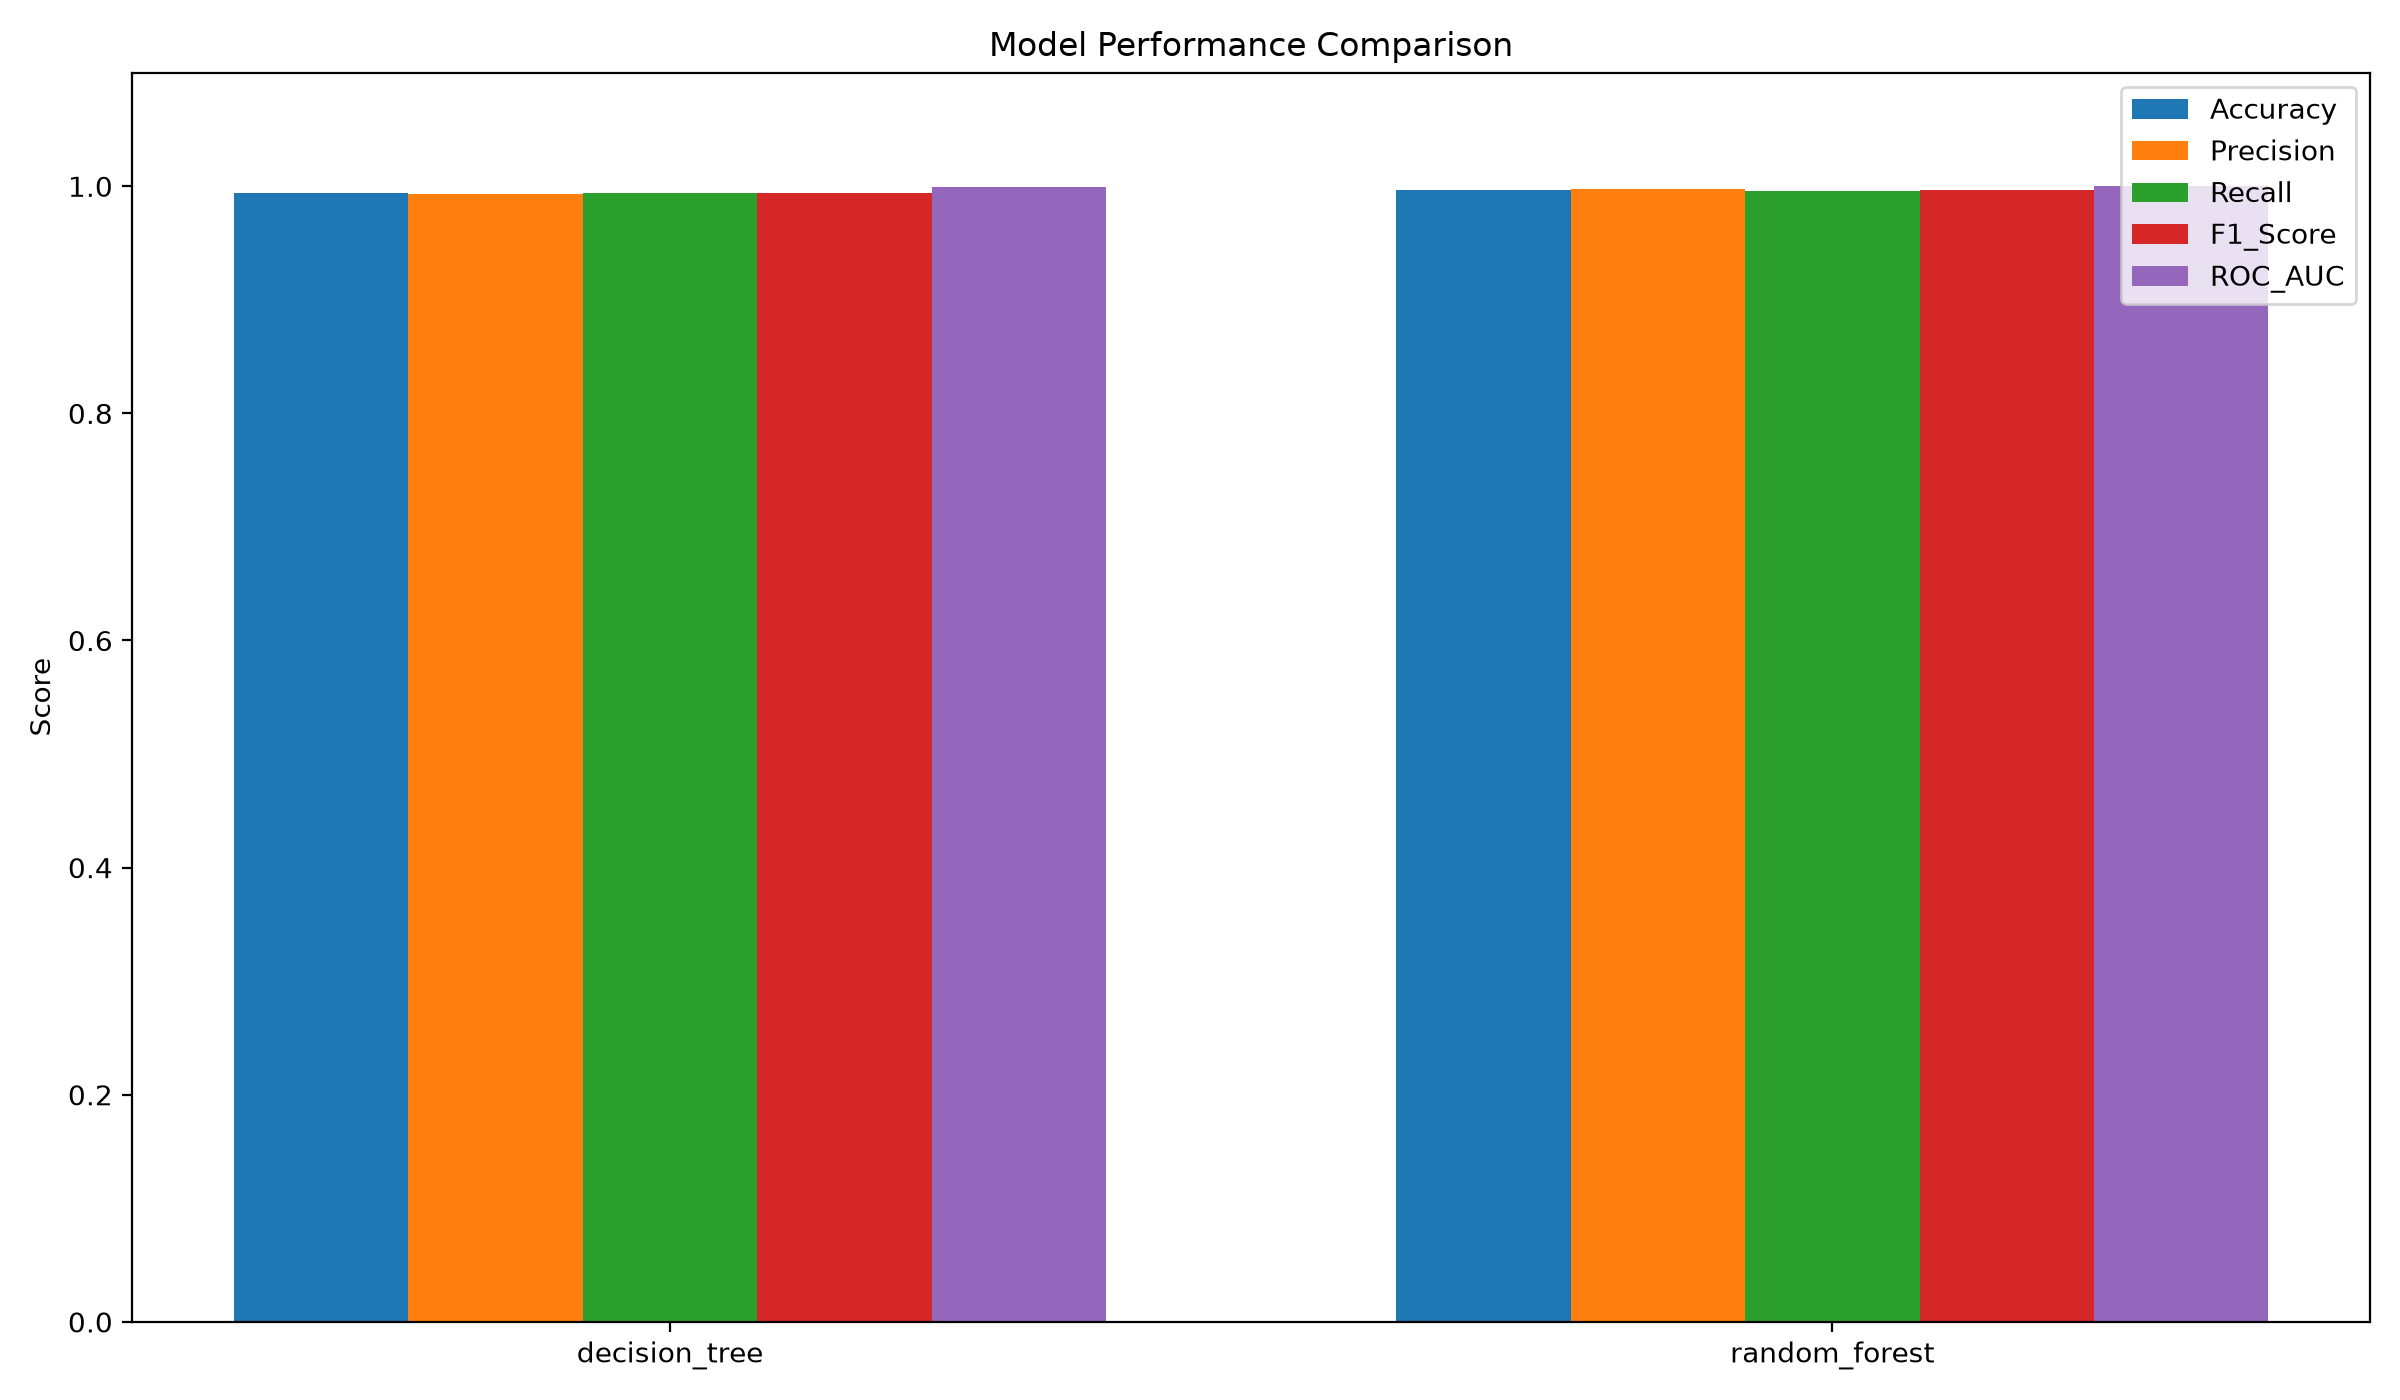
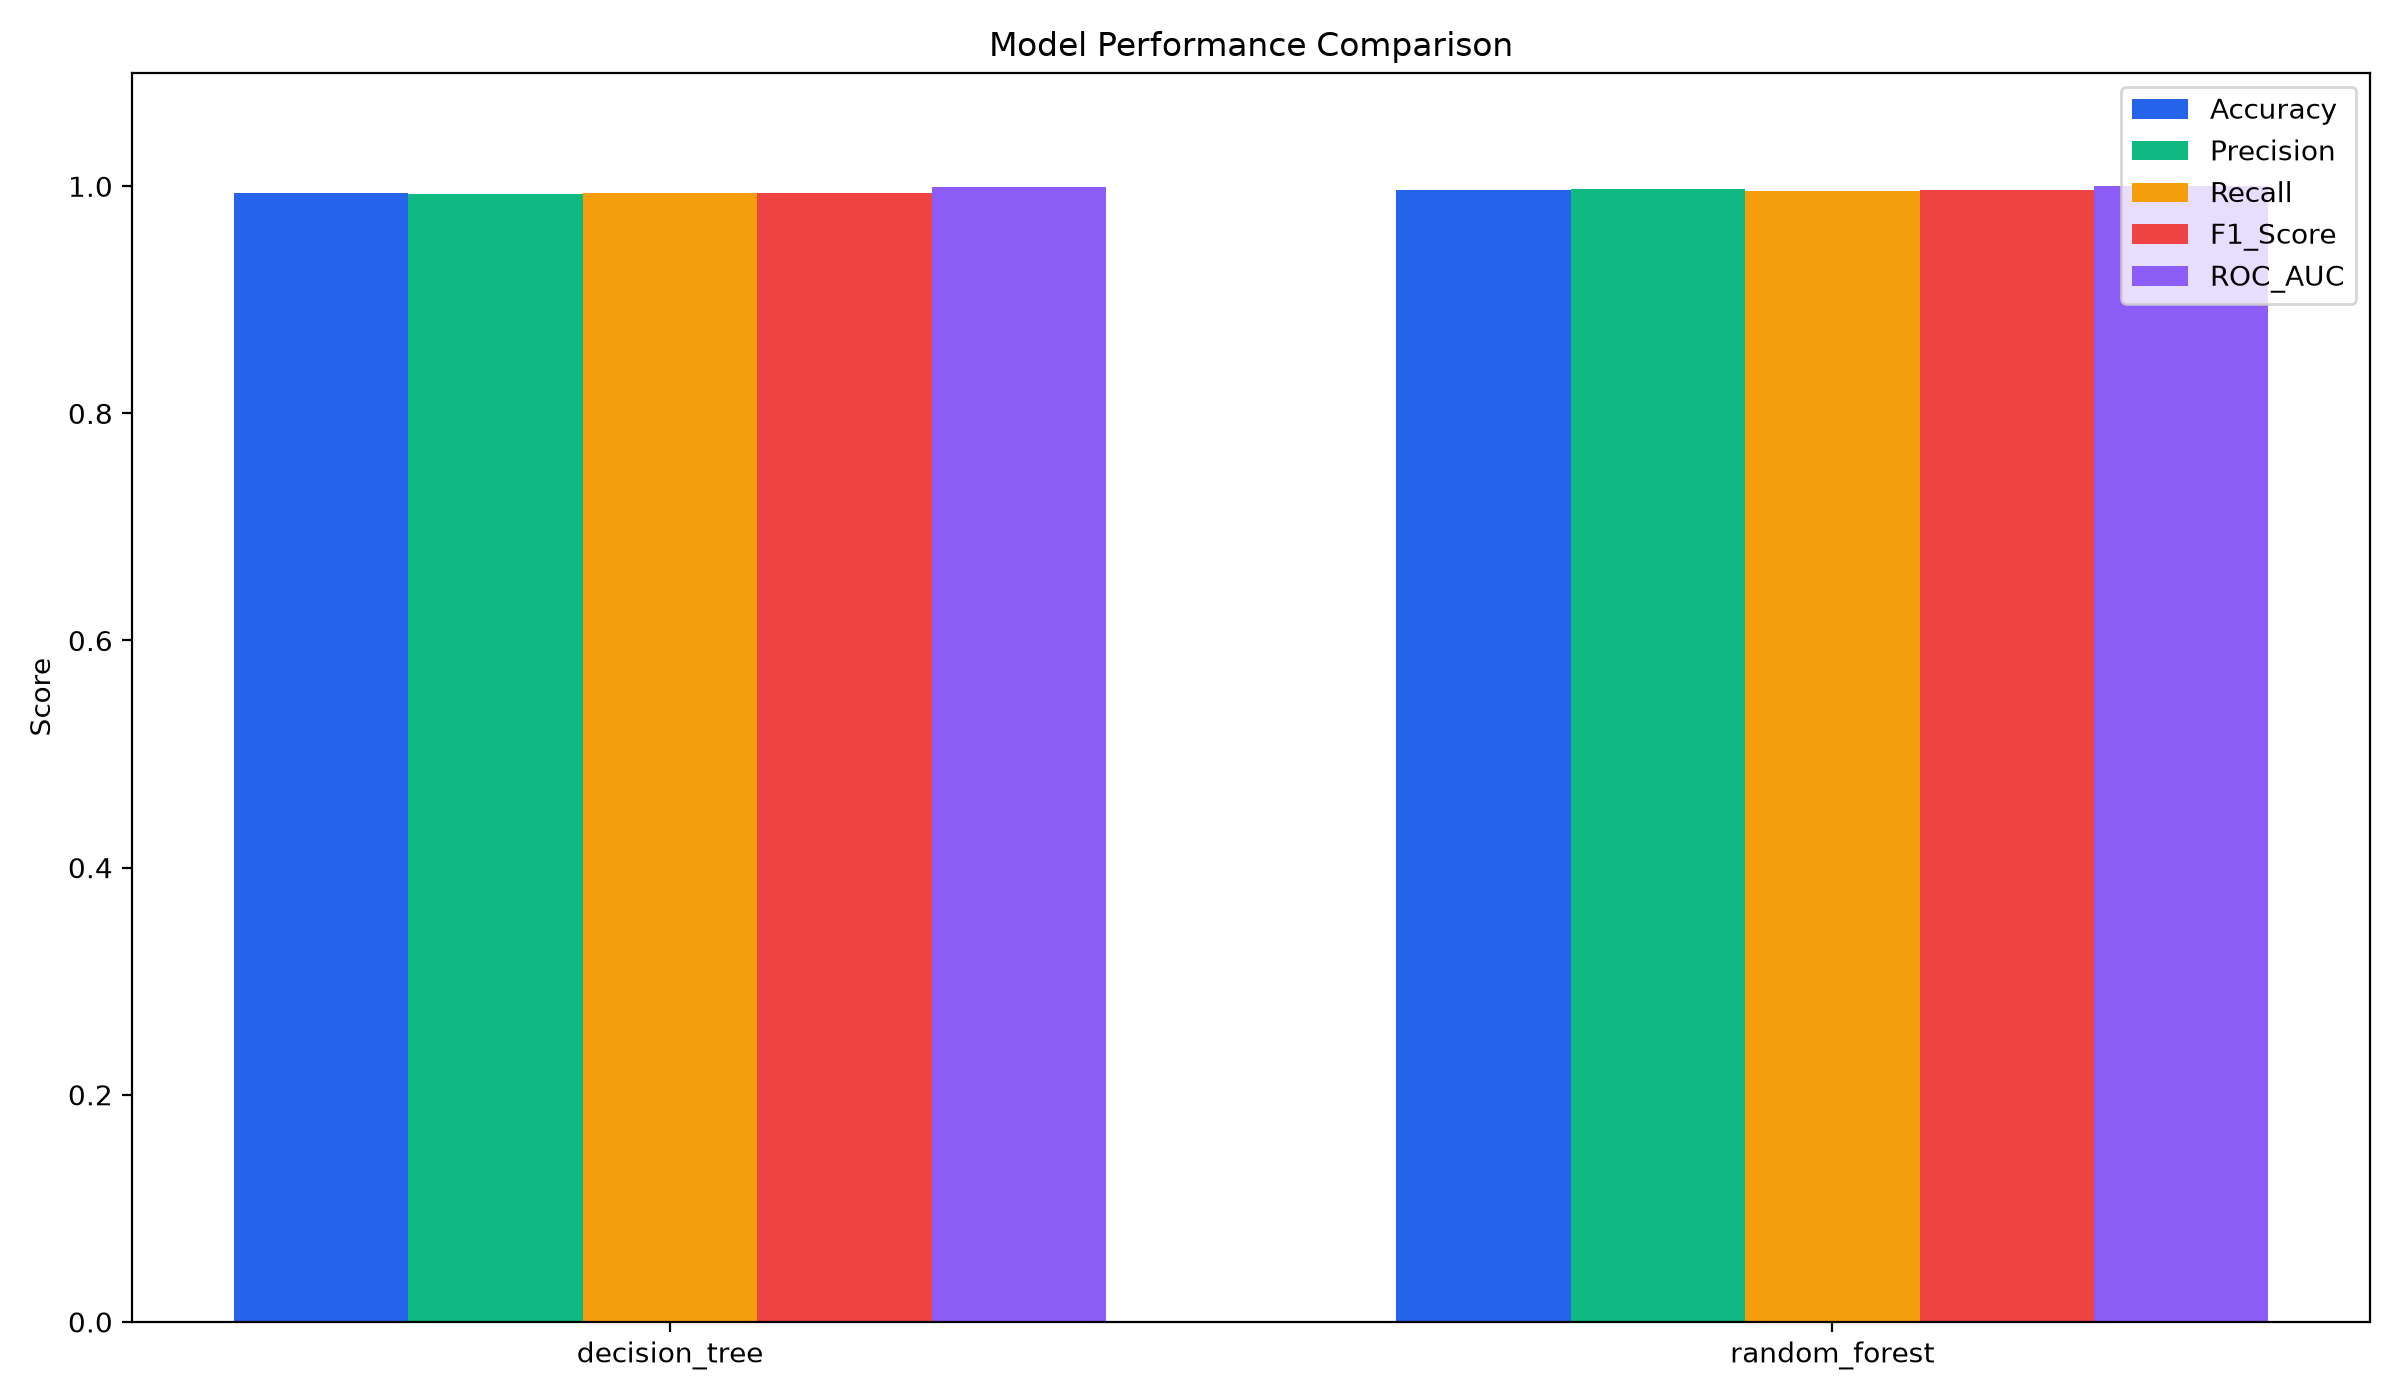
Updated

diff --git a/05_model_Evaluation.py b/05_model_Evaluation.py
@@ -144,6 +144,7 @@ def save_visualizations(comparison_df: pd.DataFrame) -> None:
     fig, ax = plt.subplots(figsize=(12, 7))
     x_positions = list(range(len(chart_df)))
     bar_width = 0.15
+    metric_colors = ["#2563eb", "#10b981", "#f59e0b", "#ef4444", "#8b5cf6"]
 
     for idx, metric in enumerate(metrics):
         offset = (idx - (len(metrics) - 1) / 2) * bar_width
@@ -153,6 +154,7 @@ def save_visualizations(comparison_df: pd.DataFrame) -> None:
             values,
             width=bar_width,
             label=metric,
+            color=metric_colors[idx],
         )
 
     ax.set_xticks(x_positions)
@@ -168,7 +170,7 @@ def save_visualizations(comparison_df: pd.DataFrame) -> None:
     fig, ax = plt.subplots(figsize=(8, 5))
     f1_scores = comparison_df["F1_Score"].tolist()
     model_names = comparison_df["Model"].tolist()
-    colors = ["#4c72b0", "#55a868"]
+    colors = ["#3b82f6", "#14b8a6"]
     bars = ax.bar(model_names, f1_scores, color=colors)
     ax.set_title("F1-Score Comparison")
     ax.set_ylabel("F1 Score")

diff --git a/04_Random Forest Classifier.py b/04_Random Forest Classifier.py
@@ -5,6 +5,7 @@ from pathlib import Path
 import matplotlib.pyplot as plt
 import pandas as pd
 from joblib import dump
+from matplotlib.colors import ListedColormap
 from sklearn.compose import ColumnTransformer
 from sklearn.ensemble import RandomForestClassifier
 from sklearn.metrics import (
@@ -161,12 +162,13 @@ def main() -> None:
         encoding="utf-8",
     )
 
+    custom_cmap = ListedColormap(["#eefaf3", "#d7f1df", "#7bc6a2", "#1f8a5d"])
     display = ConfusionMatrixDisplay(
         confusion_matrix=matrix,
         display_labels=["No churn", "Churn"],
     )
-    display.plot(cmap="Blues", values_format="d")
-    plt.title("Random Forest Confusion Matrix")
+    display.plot(cmap=custom_cmap, values_format="d")
+    plt.title("Random Forest Confusion Matrix", fontsize=12, weight="bold")
     plt.tight_layout()
     plt.savefig(OUTPUT_DIR / "random_forest_confusion_matrix.png", dpi=150)
     plt.close()

diff --git a/03_decision_tree.py b/03_decision_tree.py
@@ -5,6 +5,7 @@ from pathlib import Path
 import matplotlib.pyplot as plt
 import pandas as pd
 from joblib import dump
+from matplotlib.colors import ListedColormap
 from sklearn.compose import ColumnTransformer
 from sklearn.metrics import (
     accuracy_score,
@@ -161,12 +162,13 @@ def main() -> None:
         encoding="utf-8",
     )
 
+    custom_cmap = ListedColormap(["#eef6ff", "#dfeeff", "#9ecae1", "#2b6cb0"])
     display = ConfusionMatrixDisplay(
         confusion_matrix=matrix,
         display_labels=["No churn", "Churn"],
     )
-    display.plot(cmap="Blues", values_format="d")
-    plt.title("Decision Tree Confusion Matrix")
+    display.plot(cmap=custom_cmap, values_format="d")
+    plt.title("Decision Tree Confusion Matrix", fontsize=12, weight="bold")
     plt.tight_layout()
     plt.savefig(OUTPUT_DIR / "decision_tree_confusion_matrix.png", dpi=150)
     plt.close()
